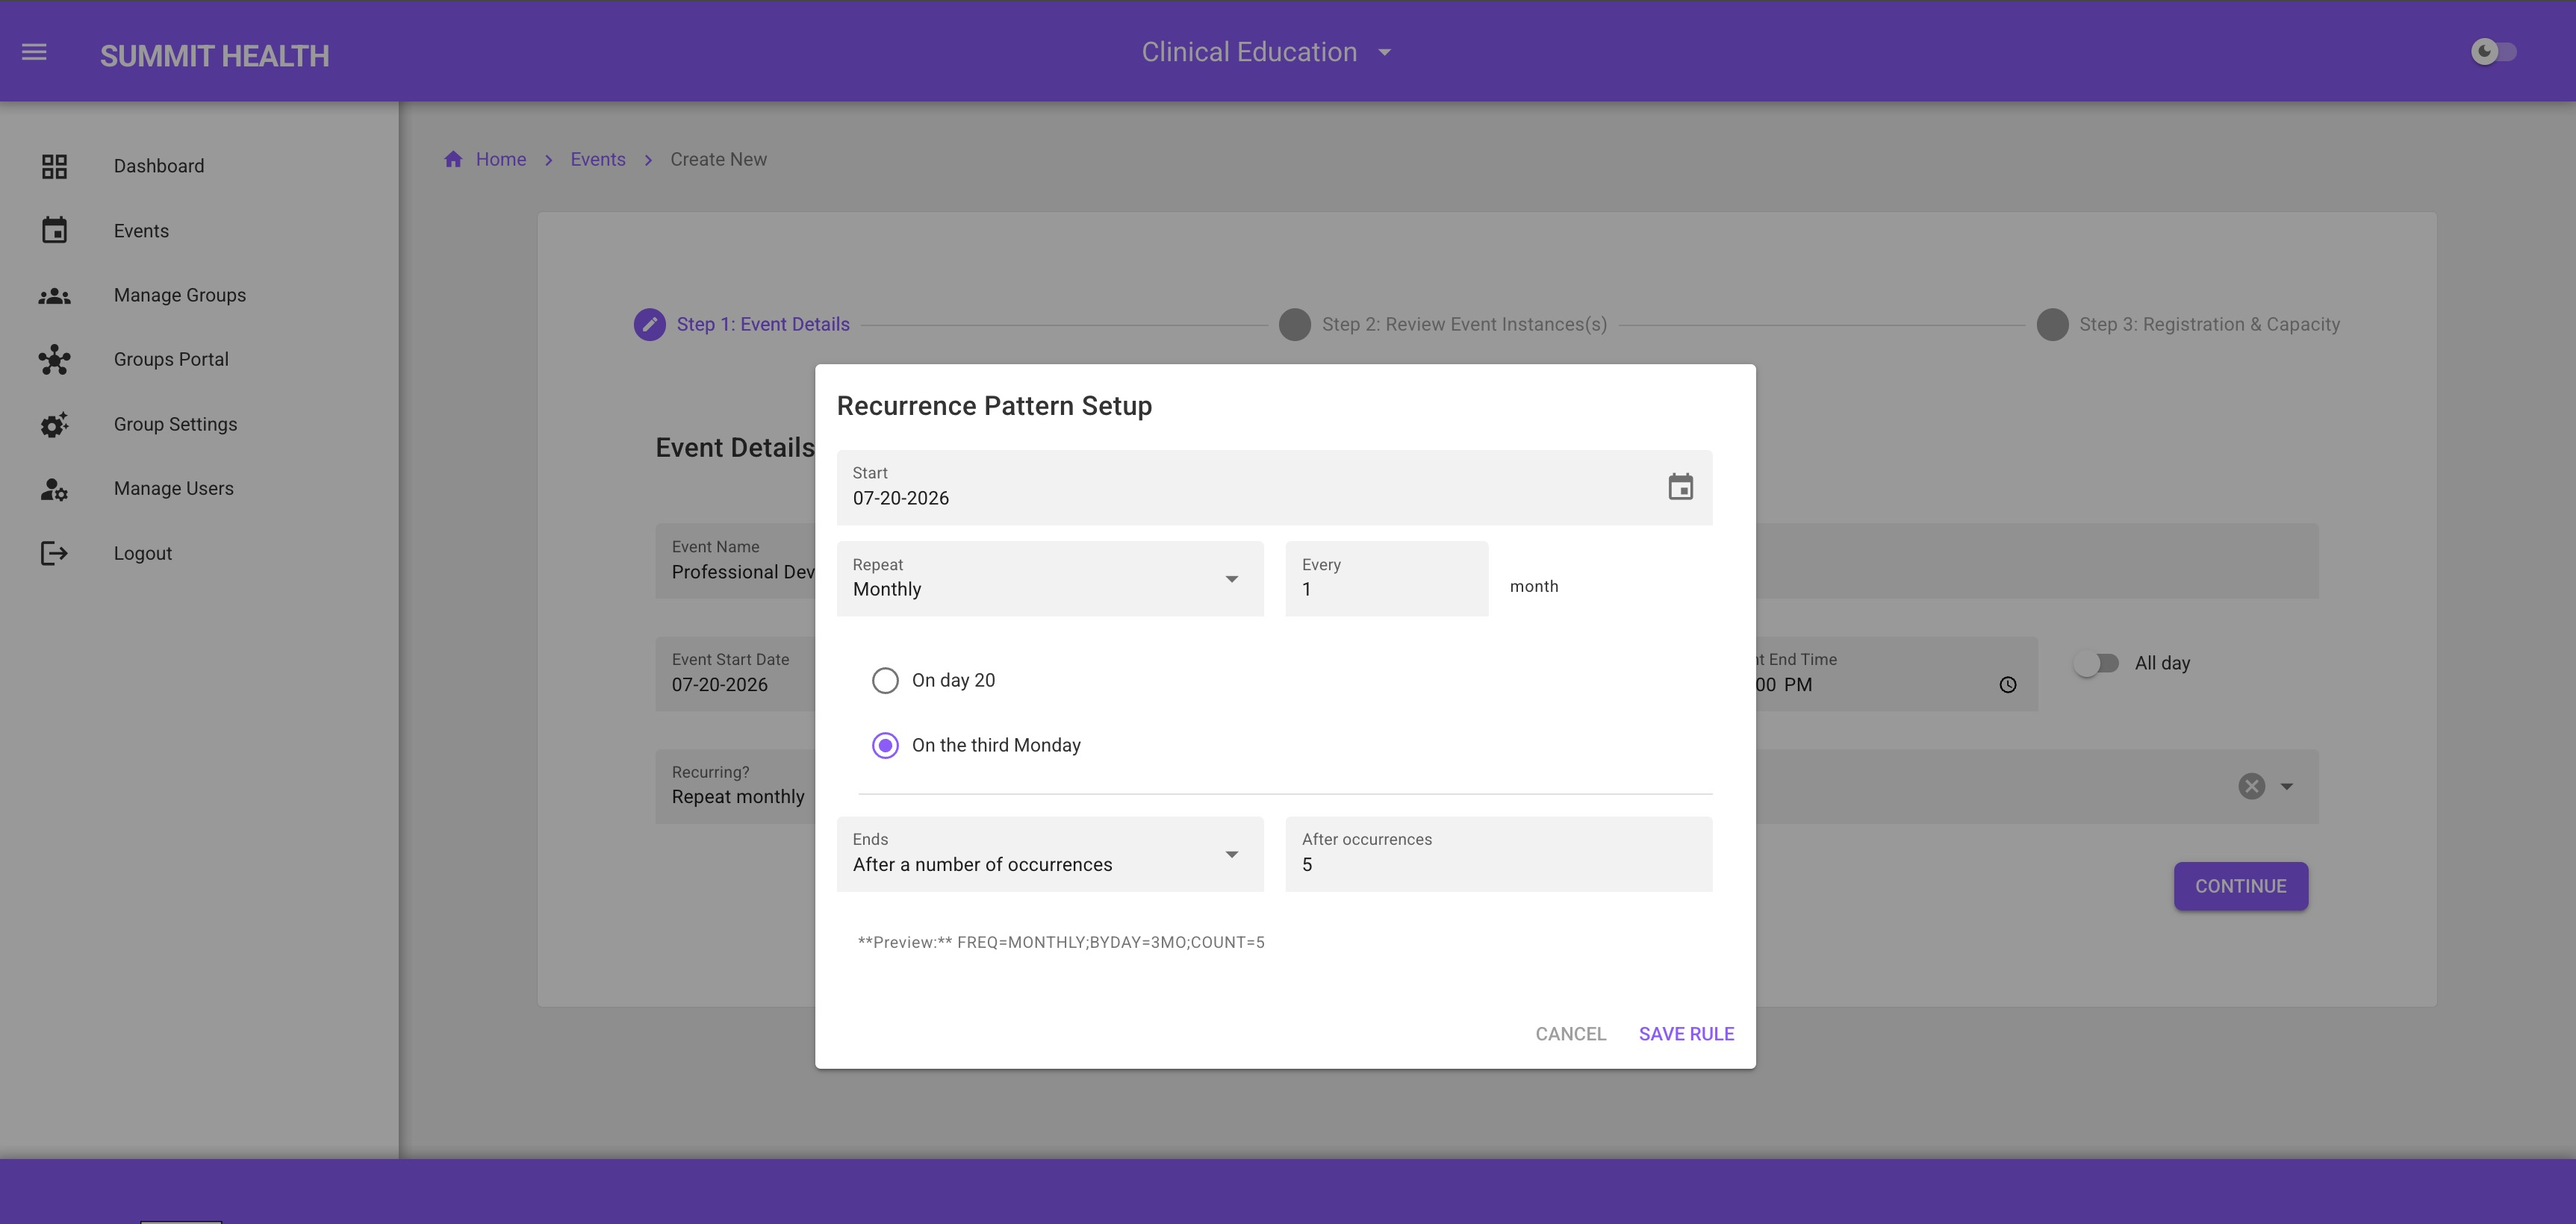
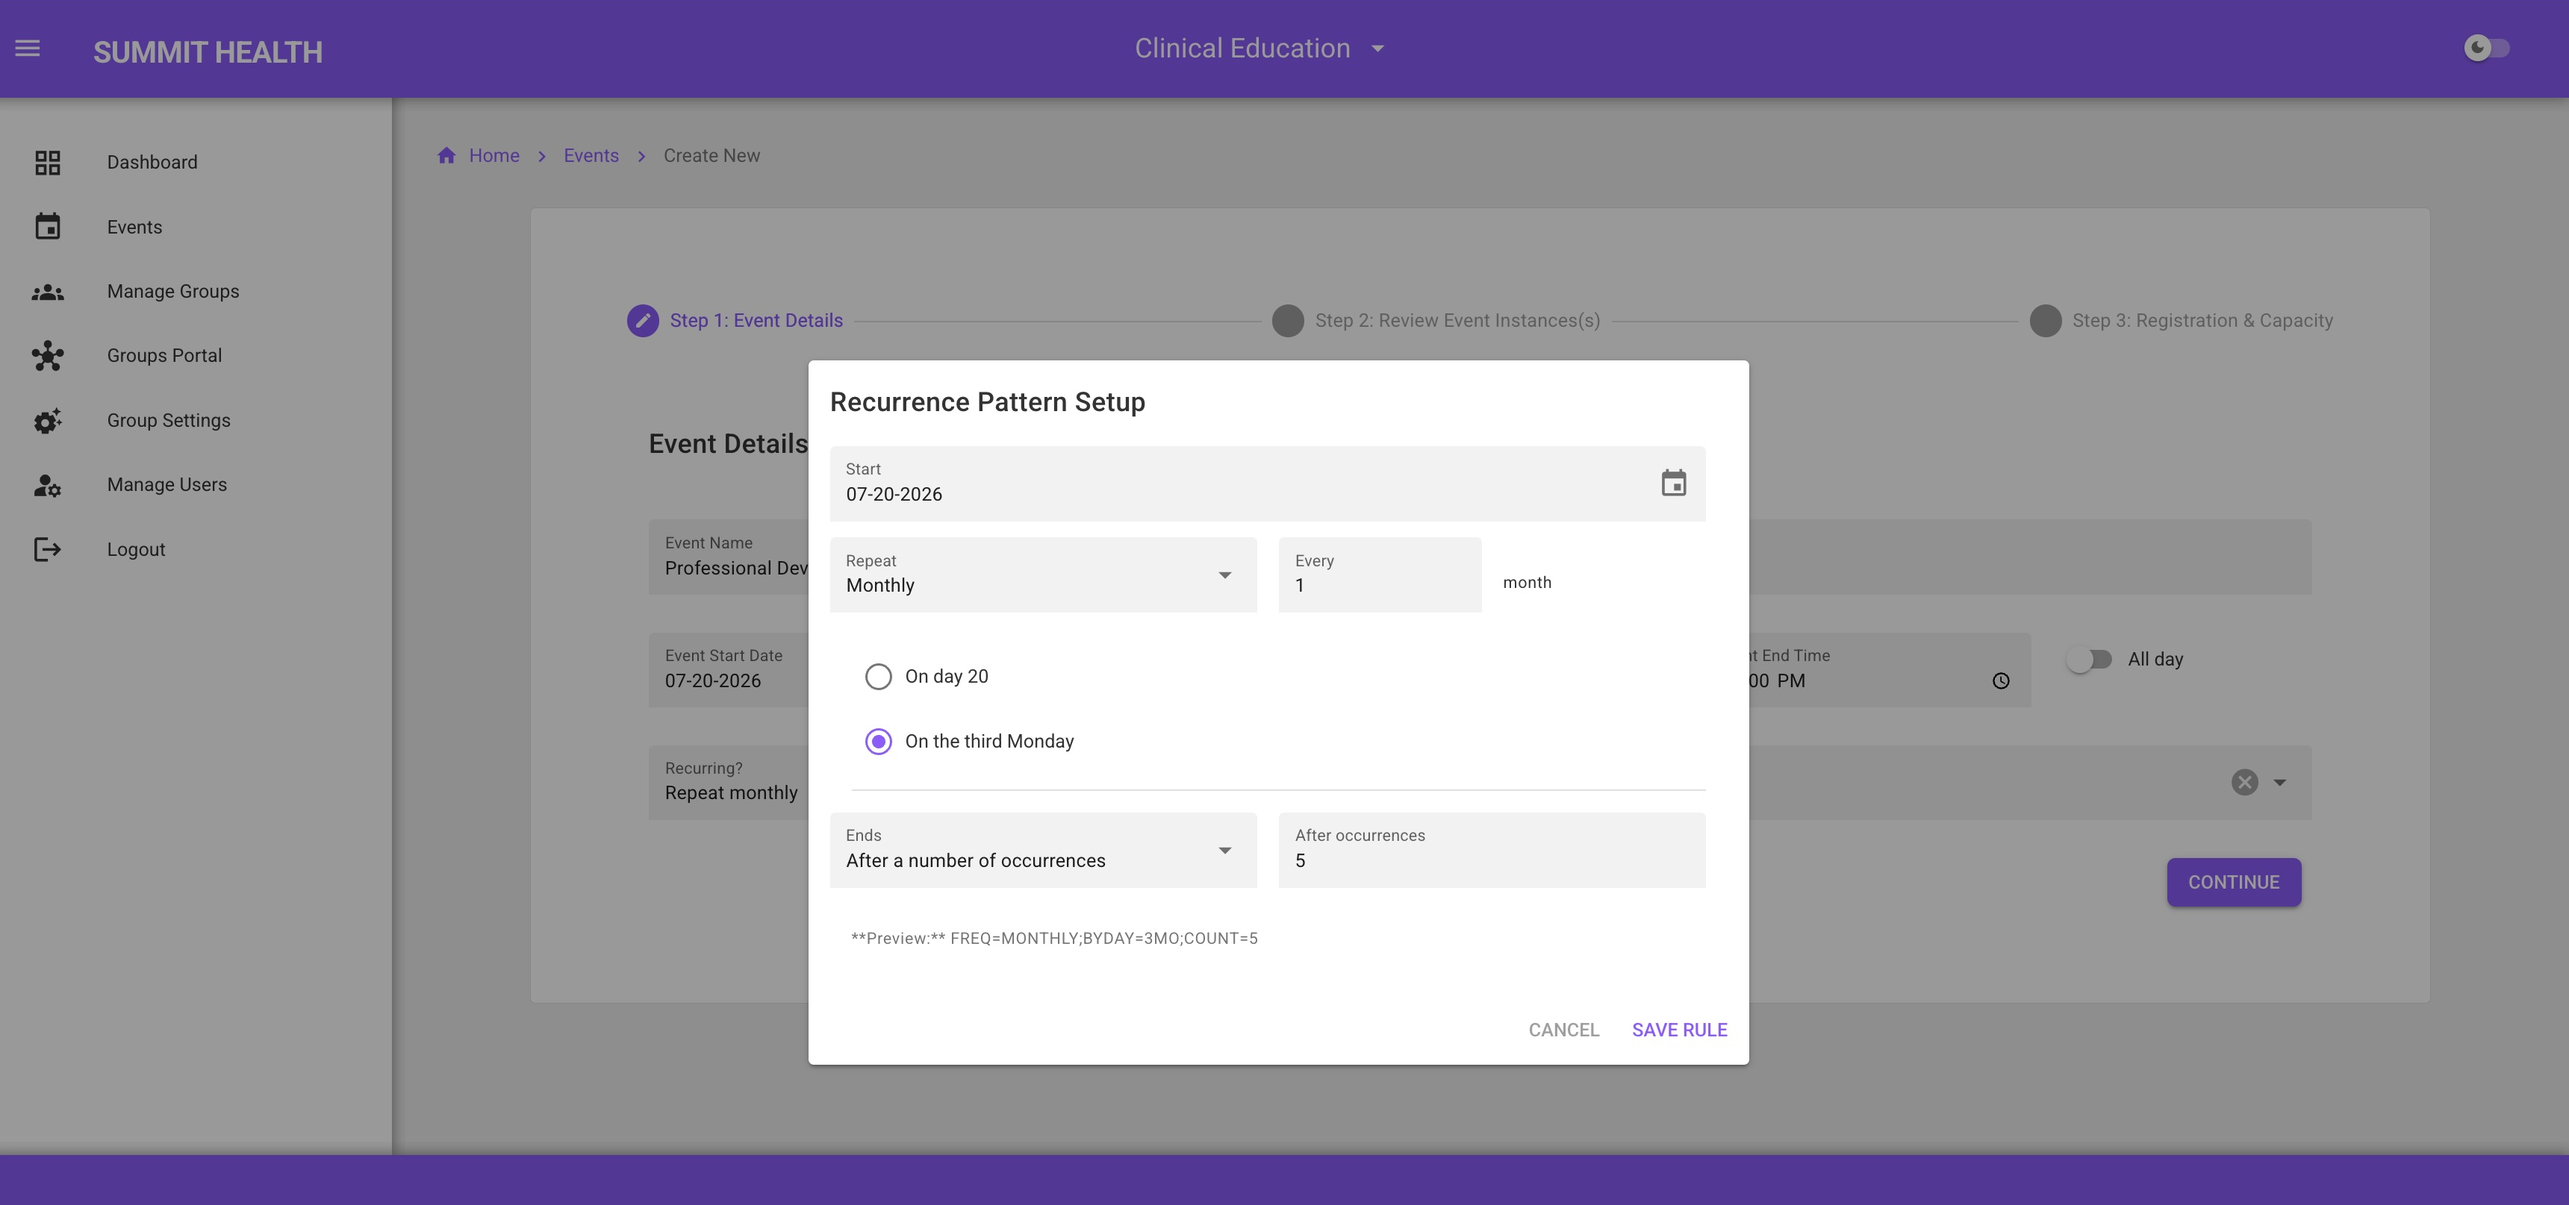
Add screenshot gallery to event creation workflow

diff --git a/src/pages/SelfServiceEventCaseStudy.vue b/src/pages/SelfServiceEventCaseStudy.vue
@@ -159,13 +159,24 @@
       image-caption="Centralized event workspace with event details, recurring occurrences, setup checklist, and quick management actions."
 
       />
-    <FeatureBlock
-        title="Event Creation & Configuration"
-        description="Administrators create events through a guided multi-step workflow that supports both one-time and recurring events. The platform simplifies complex scheduling, automatically generates recurring occurrences, and provides configurable registration settings before an event is published."
-        :image-src="eventCreationReviewImage"
-        image-alt="Event creation wizard showing generated recurring event instances for review"
-        image-caption="Generated recurring event instances can be reviewed and adjusted before the event is published."
-    />
+    <div class="rounded-card border border-site-border bg-site-surface p-8">
+  <div class="grid gap-8 lg:grid-cols-[1.6fr_1fr] lg:items-center">
+    <ScreenshotGallery :images="newEventWizardImages" />
+
+    <div>
+      <h3 class="text-xl font-semibold text-site-text">
+        Event Creation & Configuration
+      </h3>
+
+      <p class="mt-3 text-sm leading-6 text-site-muted">
+        Administrators create events through a guided multi-step workflow that supports both
+        one-time and recurring events. The platform simplifies complex scheduling,
+        automatically generates recurring occurrences, and provides configurable registration
+        settings before an event is published.
+      </p>
+    </div>
+  </div>
+</div>
     <div class="mt-8 grid gap-6 md:grid-cols-2">
 
   <MiniFeatureBlock
@@ -281,15 +292,40 @@ import BulletCard from '../components/case-study/BulletCard.vue'
 import ScreenshotPlaceholder from '../components/case-study/ScreenshotPlaceholder.vue'
 import FeatureBlock from '../components/case-study/FeatureBlock.vue'
 import MiniFeatureBlock from '../components/case-study/MiniFeatureBlock.vue'
+import ScreenshotGallery from '../components/case-study/ScreenshotGallery.vue'
 
 import dashboardImage from '../assets/images/projects/event-platform/dashboard.png'
 import eventOverviewImage from '../assets/images/projects/event-platform/event-overview.png'
+import newEventStep1Image from '../assets/images/projects/event-platform/event-wizard-step1.png'
 import eventCreationReviewImage from '../assets/images/projects/event-platform/event-wizard-step2.png'
 import recurrenceBuilderImage from '../assets/images/projects/event-platform/event-wizard-recurrence-builder.png'
 import registrationSettingsImage from '../assets/images/projects/event-platform/event-wizard-step3.png'
 
 
 const technologies = ['Laravel', 'Vue 3', 'Quasar', 'SQL Server', 'REST APIs']
+
+const newEventWizardImages = [
+  {
+    src: newEventStep1Image,
+    alt: 'Event creation wizard showing event details and configuration fields.',
+    label: 'Event Details',
+  },
+  {
+    src: recurrenceBuilderImage,
+    alt: 'Recurring event pattern builder with frequency and end condition options.',
+    label: 'Recurrence',
+  },
+  {
+    src: eventCreationReviewImage,
+    alt: 'Event creation wizard showing generated recurring event instances for review.',
+    label: 'Review Dates',
+  },
+  {
+    src: registrationSettingsImage,
+    alt: 'Event creation wizard showing registration configuration settings.',
+    label: 'Registration',
+  },
+]
 
 
 </script>

diff --git a/src/components/case-study/ScreenshotGallery.vue b/src/components/case-study/ScreenshotGallery.vue
@@ -1,34 +1,33 @@
 <template>
   <div class="rounded-card border border-site-border bg-site-surface p-6">
     <figure>
-      <div class="overflow-hidden rounded-card border border-site-border bg-site-surface2">
+      <div
+        class="flex aspect-video items-center justify-center overflow-hidden rounded-card border border-site-border bg-site-surface2"
+      >
         <img
           :src="activeImage.src"
           :alt="activeImage.alt"
-          class="w-full transition duration-300 hover:scale-[1.02]"
+          class="h-full w-full object-contain"
           loading="lazy"
         />
       </div>
-
-      <figcaption
-        v-if="activeImage.caption"
-        class="mt-3 text-sm leading-6 text-site-muted"
-      >
-        {{ activeImage.caption }}
-      </figcaption>
     </figure>
 
-    <div class="mt-4 flex flex-wrap gap-3">
+    <div
+      class="mt-4 flex flex-wrap gap-2"
+      aria-label="Screenshot gallery navigation"
+    >
       <button
         v-for="(image, index) in images"
         :key="image.src"
         type="button"
-        class="rounded-md border px-3 py-2 text-sm transition"
+        class="rounded-md border px-3 py-1.5 text-xs font-medium transition-colors duration-200"
         :class="
           index === activeIndex
-            ? 'border-brand bg-brand/10 text-brand'
+            ? 'border-brand bg-brand/15 text-brand font-semibold shadow-[0_0_18px_rgba(139,92,246,0.16)]'
             : 'border-site-border text-site-muted hover:border-brand/40 hover:text-site-text'
         "
+        :aria-pressed="index === activeIndex"
         @click="activeIndex = index"
       >
         {{ image.label || `Image ${index + 1}` }}
@@ -43,7 +42,6 @@ import { computed, ref } from 'vue'
 interface GalleryImage {
   src: string
   alt: string
-  caption?: string
   label?: string
 }
 
@@ -53,5 +51,7 @@ const props = defineProps<{
 
 const activeIndex = ref(0)
 
-const activeImage = computed(() => props.images[activeIndex.value] ?? props.images[0])
+const activeImage = computed(() => {
+  return props.images[activeIndex.value] ?? props.images[0]
+})
 </script>
